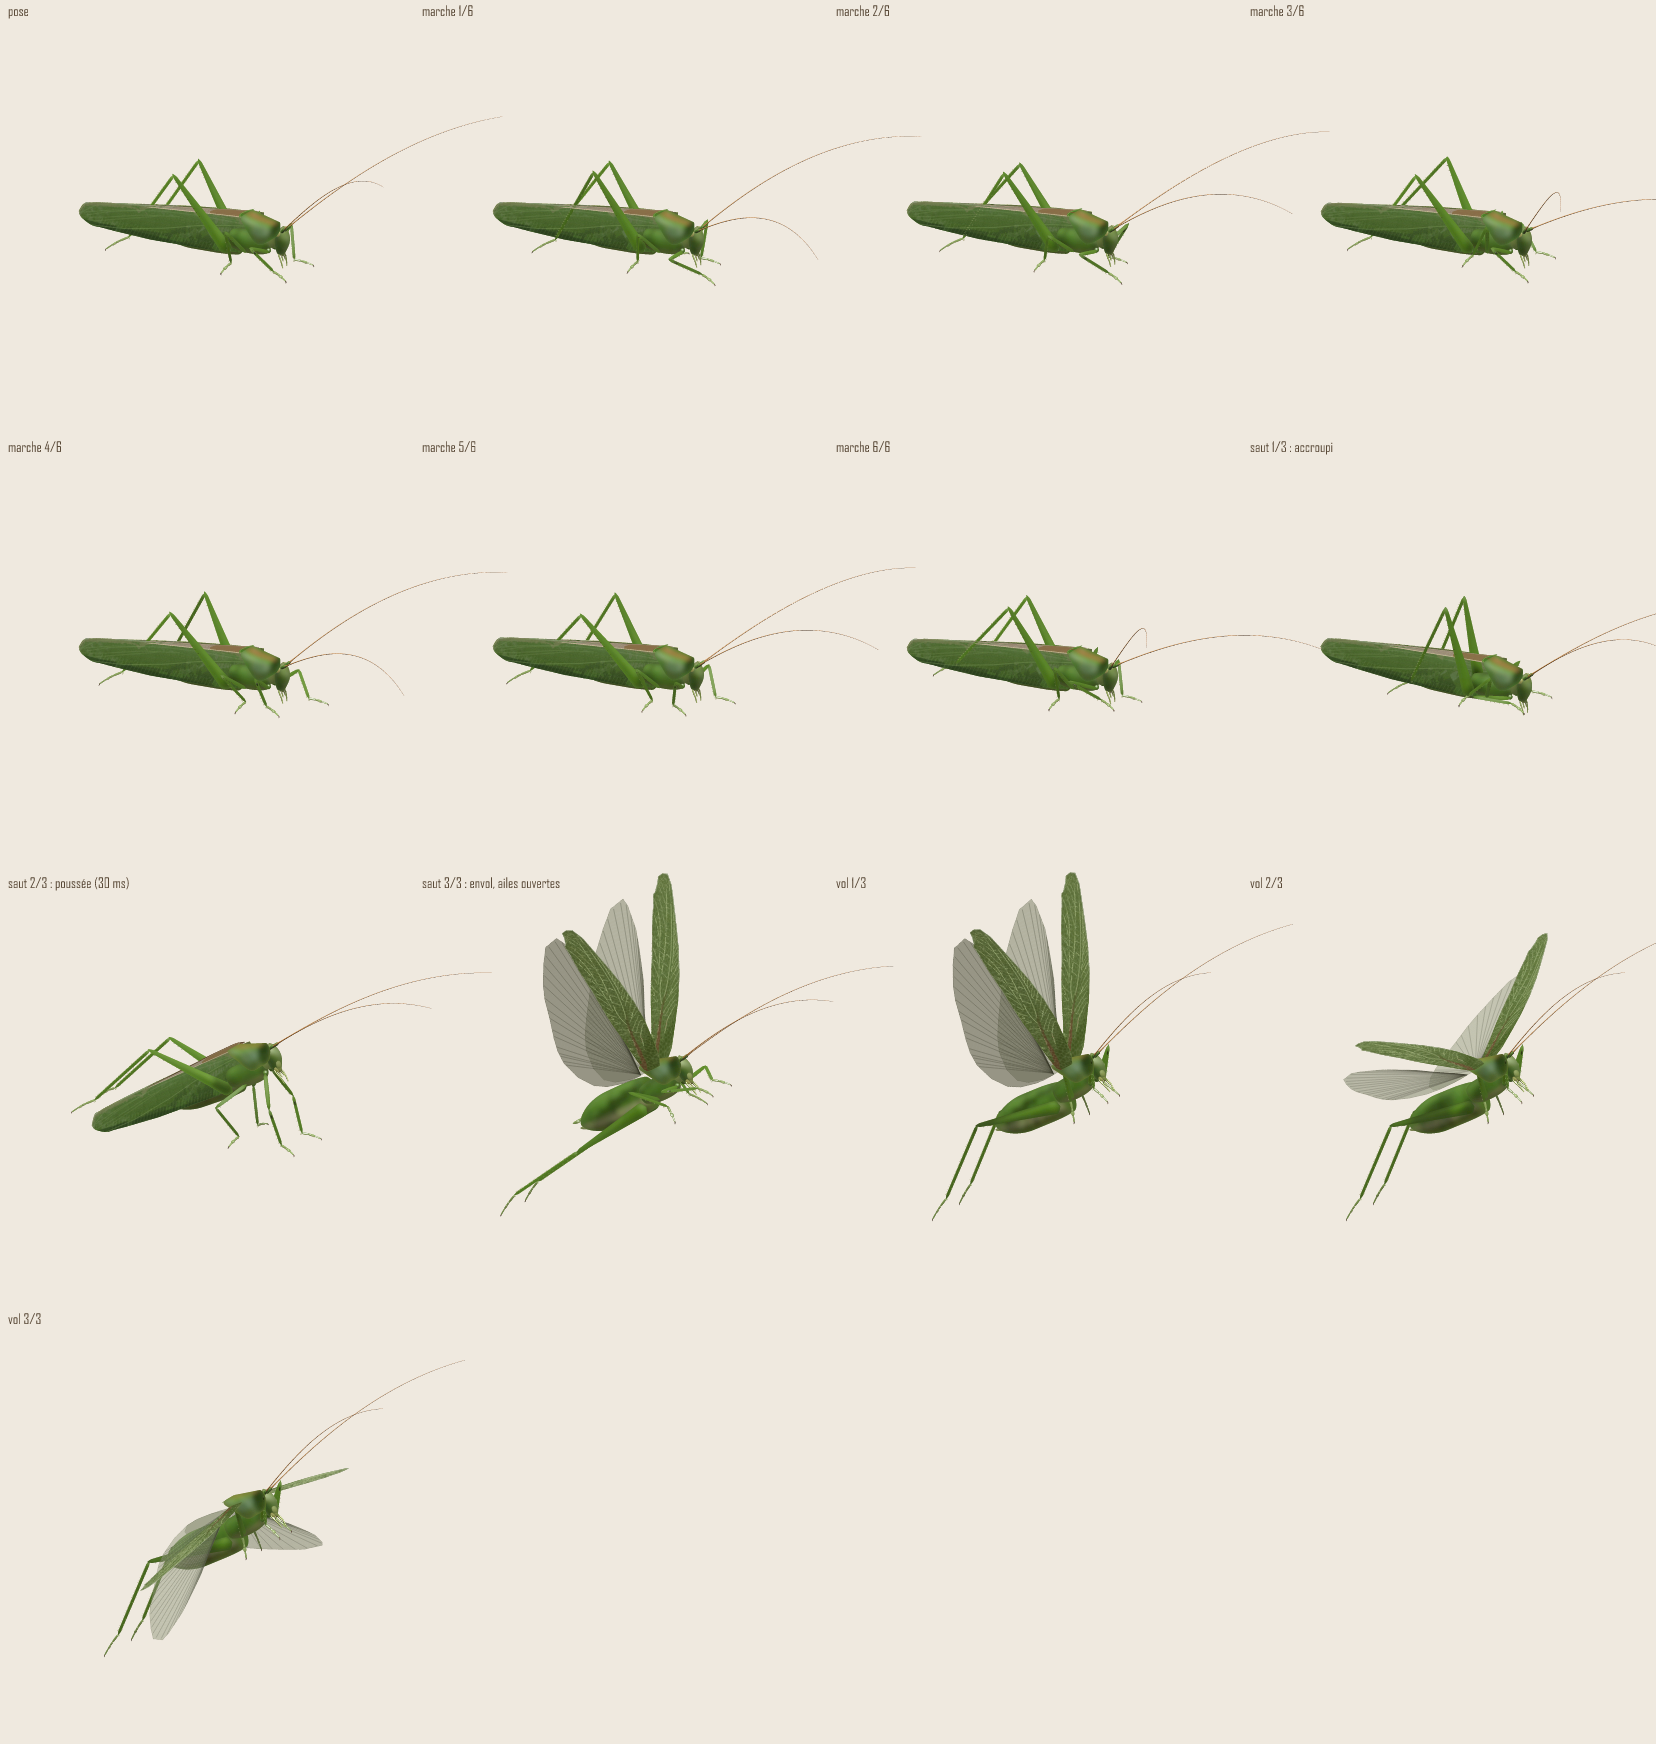
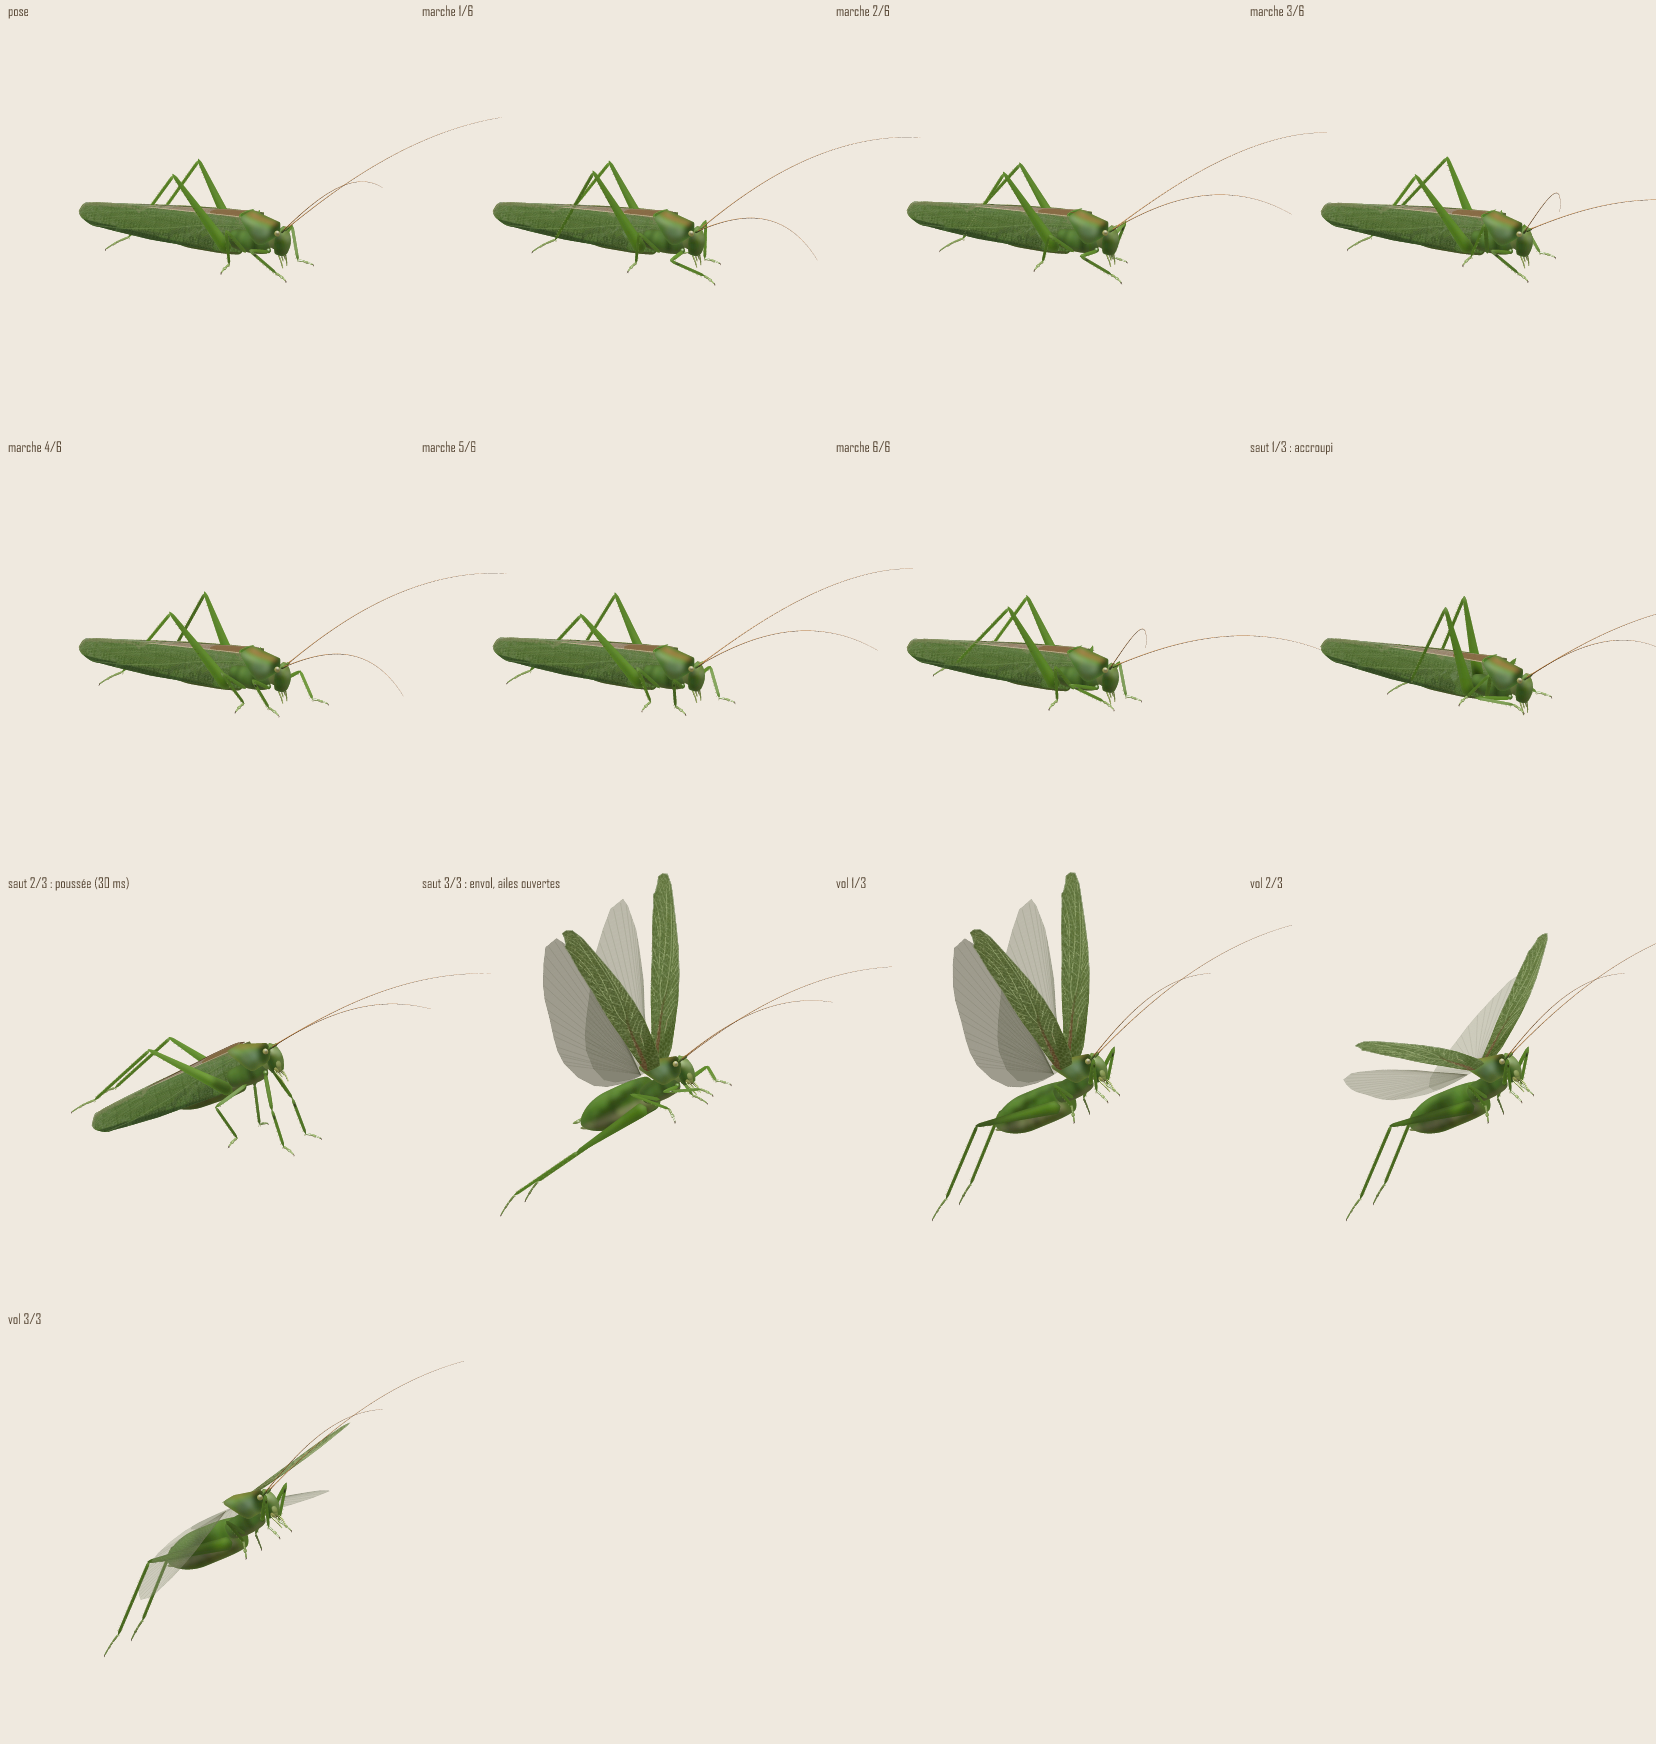
Insectes : sauterelle — corrections des deux juges neufs (tête, œil, face, pronotum, tegmina, ailes, pattes), ETAT

diff --git a/insectes/sauterelle/ETAT.md b/insectes/sauterelle/ETAT.md
@@ -1,0 +1,147 @@
+# Grande sauterelle verte (Tettigonia viridissima) : état au 2026-10-23
+
+Seconde passe, après le rejet de la première par le porteur. Méthode du machaon (PROTOCOLE §1 à §7). Le modèle dessiné est le mâle ;
+la femelle (oviscapte) est une variante (`opts.sex = 'f'` ou `SAUTERELLE_SEXE=f`).
+
+## Fait
+
+### Photos par organe
+- 47 photos HD inscrites dans `refcache/tettigonia-viridissima/refs-organes.json` (`refs_hd.py couverture` : rien ne manque).
+- Ajouts de cette passe :
+  - c080, profil MHNT empilé : flanc, épines, nervation ;
+  - c072, portrait de face : yeux, clypéus, labre, mandibules, palpes.
+- Sources principales :
+  - mâle sur papier millimétré c087 (44,2 px/mm) ;
+  - spécimen étalé c090 (tegmen et aile à plat, 31,8 px/mm) ;
+  - femelle vivante sur papier millimétré c157 (39,1 px/mm) ;
+  - profil vivant c166 (42,3 px/mm, rapporté aux 53,5 mm de c087) ;
+  - vol c250, tête c016, c023, c026, c072.
+
+### Forme mesurée
+Calques du contour rendu sur les photos (`outils/calque.mjs` et `calque.py`, images dans `refcache/.../mesures/`) :
+- profil c166 : silhouette du tegmen, du pronotum, de la tête et du fémur postérieur ;
+- dessus c087 et c157 : largeur des tegmina, convergence des lignes de pli, pronotum en selle à bord postérieur arrondi.
+
+Cotes, en mm :
+
+| pièce | cote | source |
+|---|---|---|
+| fastigium à pointe des tegmina | 53,5 | c087 |
+| corps | 32,4 | c090 sec 28,4 ; littérature 28 à 36 |
+| pronotum | 7,1 | c087 |
+| tegmen | 43 à 44,6 | c090, c166 |
+| tête, de la bouche au vertex | 6,65 | c166 |
+| largeur aux yeux | 5,0 | c157 |
+| fémur postérieur | 21 | c090 |
+| tibia postérieur | 20 | c090 |
+| tarse postérieur | 6,2 | c090 |
+| antenne | 56 | c090 |
+
+Les SAM et la profondeur n'ont pas tourné : pendant toute la session, la RAM libre est restée sous le seuil du verrou (3,2 à
+4,7 Go pour 5,5 demandés). Les masques ont été tracés à la main, en chiffres (`ailes/masques.json`), et la forme a été validée
+par les calques plutôt que par des cartes de profondeur.
+
+### Motifs en chiffres
+- **Champ latéral du tegmen replié** : c166 mis à plat (`aile.py plat --sansfond --lisse`), les pattes qui le croisent comblées.
+  On en tire :
+  - le contour (44,65 mm) ;
+  - trois zones, contraste ramené à 60 % (la photo y porte un peu de son ombre) ;
+  - le réseau de cellules, de 0,81 mm au spectre ; le juge a demandé une maille plus serrée, mise à 0,45 mm ;
+  - la nervation relevée sur l'image filtrée : nervure principale, radiales, éventail de la pointe, branches costales ;
+  - la bande sombre du bord costal.
+- **Champ dorsal** : largeurs lues sur c087, couleurs sur c157. Chez le mâle, champ stridulant brun et nervure de la lime ;
+  ensuite, une bande gris argenté à brun clair, réticulée, qui s'efface à 60 % du tegmen.
+- **Ailes étalées** (vol), sur c090 :
+  - tegmen : contour de 43,3 mm et nervures, aux couleurs vivantes de c166 ;
+  - aile postérieure : contour de 39,2 mm, 28 nervures radiales et nervures transverses en échelle, membrane fumée à 46 %.
+- **Grilles 72 × 18** (`outils/plat_profil.py`, reflets exclus, lissées sur 5 rangs) :
+  - tête et lobe du pronotum sur c166 ;
+  - dessous de l'abdomen sur c250.
+
+### Modèle SVG
+Un groupe par organe, `p-<organe>` : tete, oeil-g/d, antenne-g/d, palpe-g/d, pieces-buccales, pronotum, thorax, abdomen,
+cerque-g/d (ou oviscapte), tegmen-g/d, patte-avant/milieu/arriere-g/d, aile-avant-g/d et aile-arriere-g/d (au vol seulement).
+- **Œil** : la pseudopupille suit la vue ; c'est un effet optique, pas une marque.
+- **Épines** : les rangées sont regroupées en quelques chemins par article (`trait.mjs`).
+- **Tegmina repliés** : deux plans par tegmen (champ dorsal et champ latéral), dont la profondeur est prise près de l'abdomen.
+  En vol, ce sont des quads au runtime.
+
+### Juge neuf
+- **Premier passage : ko.** Corrigé ensuite :
+  - le champ dorsal ;
+  - la tête : plus large aux yeux, yeux encastrés, pseudopupille ronde, antennes entre les yeux, scape court, clypéus, labre,
+    mandibules à pointe brune, palpes articulés ;
+  - le pronotum : mat, liseré jaune du lobe, disque vert, bande qui s'amincit, bord arrière arrondi ;
+  - l'oviscapte : lame lisse, bout brun-rouge, plus court que les tegmina ;
+  - les ailes postérieures ;
+  - les nervures, moins contrastées ;
+  - les épines : fines, vert pâle à pointe brune ;
+  - le fémur postérieur, plus renflé ;
+  - les couleurs, plus saturées ;
+  - le saut (extension complète) et le vol (corps à 32°, pattes traînantes) ;
+  - un bogue de hasard qui donnait au réseau un carrelage de 4 mm.
+- **Second passage : ko.** Le juge reconnaît la silhouette de profil et juge les teintes justes (tegmen RGB 77,108,46 contre
+  73,107,38 sur la photo ; pronotum 90,121,62 contre 93,130,63). Corrigé ensuite :
+  - la vue de face, cassée : le pronotum passait devant la tête. Sa profondeur est maintenant prise au point de la coque le plus
+    proche de la vue ;
+  - la tête : face presque verticale, joues plates, bas du visage large ;
+  - l'œil, enchâssé et olive, à pseudopupille ronde ;
+  - le scape, court et couleur de la tête ;
+  - le thorax : pleures satinées, avec leurs sutures ;
+  - les tarses antérieurs et médians, ramenés à 0,4 fois le tibia ;
+  - le contraste du réseau des tegmina, relevé ;
+  - les ailes postérieures, hyalines à 30 % ;
+  - le troisième dessin du vol, qui passait devant la tête.
+- **Garés après deux passages** (§17.1) : voir les résidus 2, 3 et 7 à 10.
+
+### Animation et comportement
+- **Planche** `planches/anim.png`, par `outils/planche-sauterelle.mjs` : pose, marche en 6 images, saut en 3, vol en 3 dessins
+  d'ailes.
+- **Runtime** `runtime/sauterelle.mjs` :
+  - pose sur une fleur, marche, saut puis vol court, fuite au clic ;
+  - les ailes sont des quads, masqués au repos (`wingsShown`).
+- **Chiffres** : `COMPORTEMENT.md` (Burrows & Morris 2003 pour le saut, Brackenbury 1990, la marche des sauterelles bioRxiv 2025).
+
+### Atlas
+Voir « Poids » plus bas.
+
+## Fichiers partagés touchés (pour l'intégration)
+- `runtime/essaim.mjs` : clé nouvelle `b.wingsShown === false`, qui masque les quads d'ailes. Le machaon n'est pas concerné.
+- `demo/demo.mjs` : paramètre `?sauterelle=n` (3 au plus), import de `runtime/sauterelle.mjs`.
+- `outils/aile.py` :
+  - options `--sansfond` (masque tracé), `--lisse` (bandes cachées comblées par inpainting), `--vclaires`, `--vseuil`, `--vclair`
+    et `--vlarg` (nervures plus claires que la membrane), clé `masquer` des cadres ;
+  - valeurs par défaut inchangées.
+- `outils/paires.py` : clés `env` (variante d'espèce par paire) et `rot`, et `--max-old-space-size=900` pour les rendus.
+- Nouveaux outils : `calque.mjs`, `calque.py`, `cellule.mjs`, `plat_profil.py`, `planche-sauterelle.mjs`.
+- Le moteur (`moteur/*.mjs`) n'est pas touché. Le machaon est identique au pixel : 3 cellules (pose 30/20, vol 90/65, butine 150/0)
+  rendues avant et après, 0 pixel différent.
+
+## Résidus
+1. **resvg plante** (`geom.rs:27`, unwrap sur None) dans `gros.mjs` quand un élément flouté tombe entièrement hors de la fenêtre de
+   gros plan, par exemple k = 55 de profil sur la tête. Il ne touche pas les cellules d'atlas (l'insecte est tout entier dans la
+   cellule). Contournement : changer de fenêtre ou de k. Correction possible dans `gros.mjs` : retirer du SVG les pièces hors fenêtre.
+2. **Chevrons du fémur postérieur** (motif des muscles en arête de poisson) : pas dessinés, seulement le pointillé noir.
+3. **Courbure du tegmen** : il est replié en deux plans. L'épaule arrondie entre le champ dorsal et le champ latéral n'existe pas,
+   et de dessus le vert des champs latéraux paraît plus étroit que sur c157.
+4. **Rapport tibia sur fémur postérieur** : 0,95 mesuré à plat sur c090 ; le juge lit environ 1,25 sur c166, en raccourci. On garde
+   la mesure à plat.
+5. **SAM et profondeur** non passés (RAM). Les mesures de forme viennent des calques.
+7. **Pleures du thorax** : les sutures sont dessinées, mais pas les sclérites en relief ni les hanches médianes et postérieures.
+8. **Pièces buccales de profil** : le clypéus, le labre et les mandibules sont modelés, mais restent schématiques en gros plan.
+9. **Champ dorsal** : il est gris-brun réticulé, alors que c157 le montre plus rosé et translucide. Les fémurs postérieurs vus de
+   dessus partent trop près du pronotum : leur base devrait passer sous le tegmen.
+10. **Pointe du tegmen** : son contour vient du relevé de c166 ; elle reste un peu anguleuse.
+6. **Vitesse de vol, durée des visites, accroupi avant le saut** : ordres de grandeur, à mesurer sur vidéo.
+
+## Questions au porteur
+- **Sexe dessiné** : mâle ou femelle ?
+  - Proposition : le mâle. PROTOCOLE §1.3 le cite en exemple, la plupart des photos sont des mâles, et son champ stridulant brun
+    se reconnaît.
+  - Sa silhouette, sans le sabre de 18 mm, reste plus nette au-dessus des fleurs.
+  - La femelle existe déjà en variante (oviscapte), si l'on veut les deux sexes en alternance : son atlas coûterait environ autant
+    que celui du mâle.
+- **Antennes** : elles imposent une cellule de 100 mm pour un corps de 53 mm.
+  - Proposition : les garder dans l'atlas (elles balaient pendant la marche).
+  - L'autre voie serait de les dessiner au runtime en lignes, avec une clé nouvelle de l'essaim : l'atlas serait deux fois plus
+    léger.
